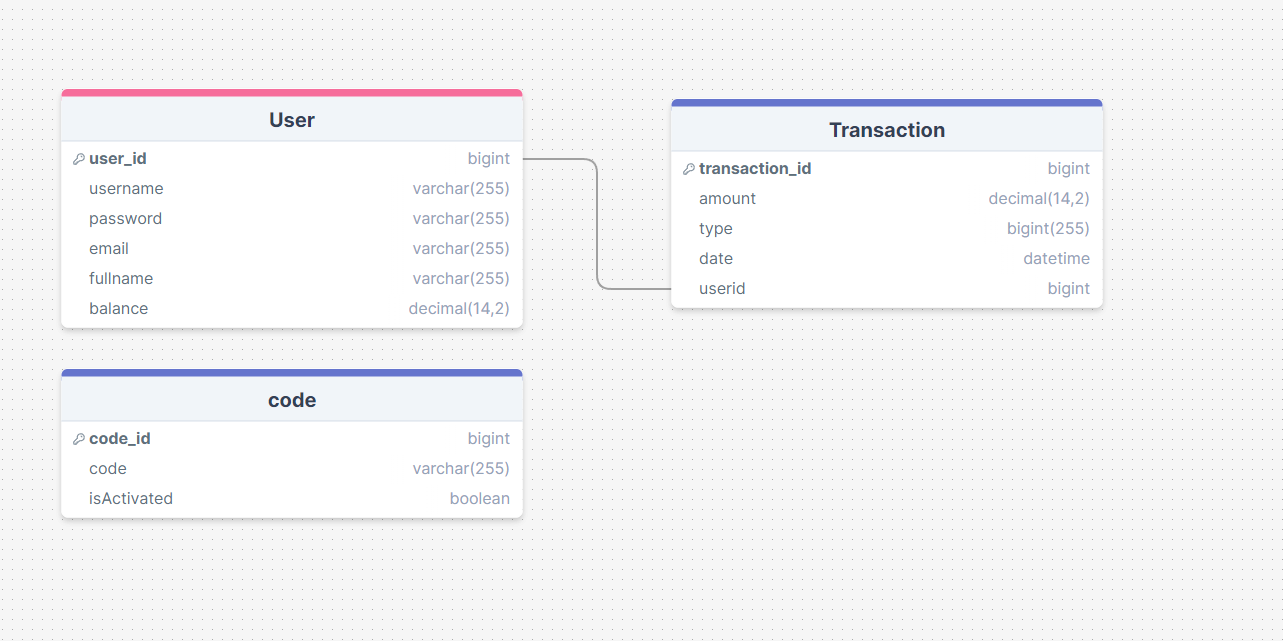
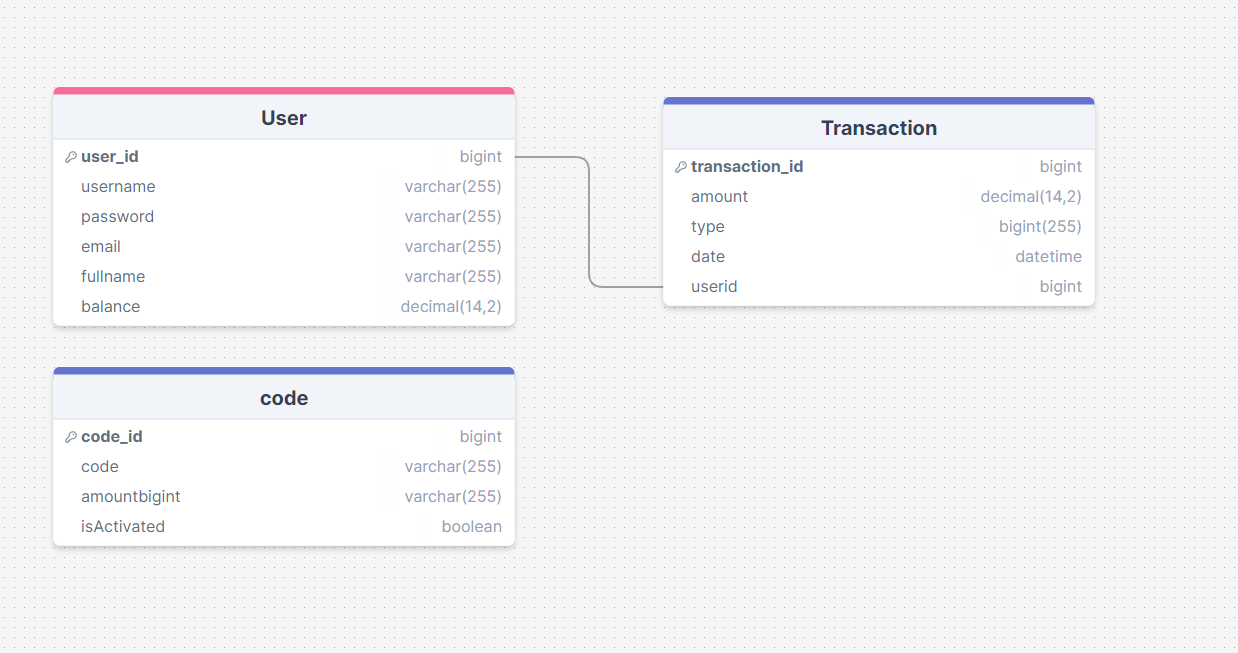
Changed database and added new schema

diff --git a/application/models.py b/application/models.py
@@ -30,7 +30,7 @@ class Transaction(db.Model):
 
     # Primary Key
     transaction_id = db.Column(db.Integer, primary_key=True, autoincrement=True)
-    amount = db.Column(db.Numeric(14,2)) # store balance as string will convert back for calculation
+    amount = db.Column(db.String(1000)) # store balance as string will convert back for calculation
     type = db.Column(db.Integer) #0 for deposit, 1 for transaction
     date = db.Column(db.DateTime(timezone=True))
     # Foreign Key
@@ -45,6 +45,7 @@ class Code(db.Model):
     # Primary Key
     code_id = db.Column(db.Integer, primary_key=True, autoincrement=True)
     code = db.Column(db.String(1000))
+    amount = db.Column(db.String(1000))
     isActivated = db.Column(db.Boolean)
 
 @login.user_loader
